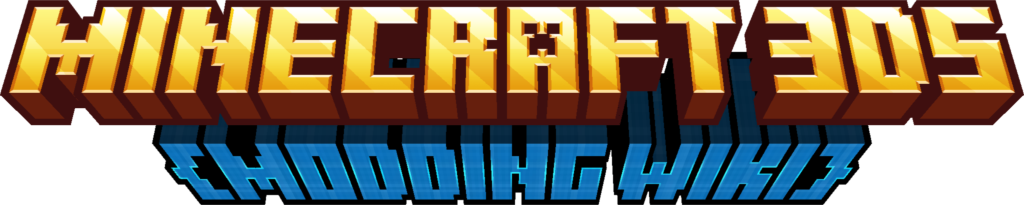
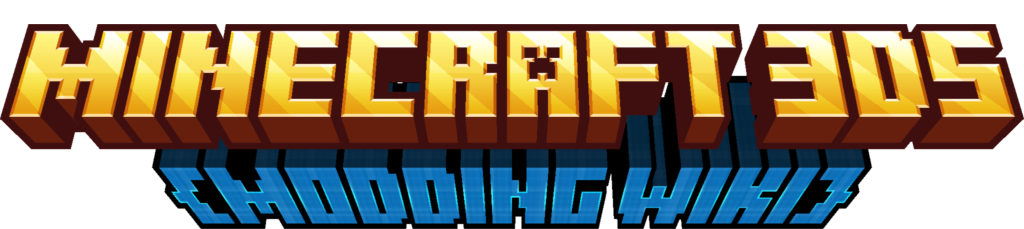
fix buttons and shuffle header around

diff --git a/css/styles.css b/css/styles.css
@@ -41,13 +41,20 @@ header.light-mode {
 .wiki-logo {
   max-width: 300px;
   height: auto;
+  margin-left: 600px 
 }
 
 .settings-icon {
   width: 40px;
   height: 40px;
   cursor: pointer;
-  margin-left: auto; /* Push to the right side */
+  margin-left: 550px; /* Push to the right side */
+  image-rendering: auto;
+  image-rendering: crisp-edges;
+  image-rendering: pixelated;
+
+  /* Safari seems to support, but seems deprecated and does the same thing as the others. */
+  image-rendering: -webkit-optimize-contrast;  
 }
 
 /* Settings Menu Modal */
@@ -94,7 +101,7 @@ header.light-mode {
 
 /* Card Styles */
 .card {
-  background-color: inherit;
+  background-color: #444;
   border: 1px solid #444;
   border-radius: 8px;
   padding: 1rem;
